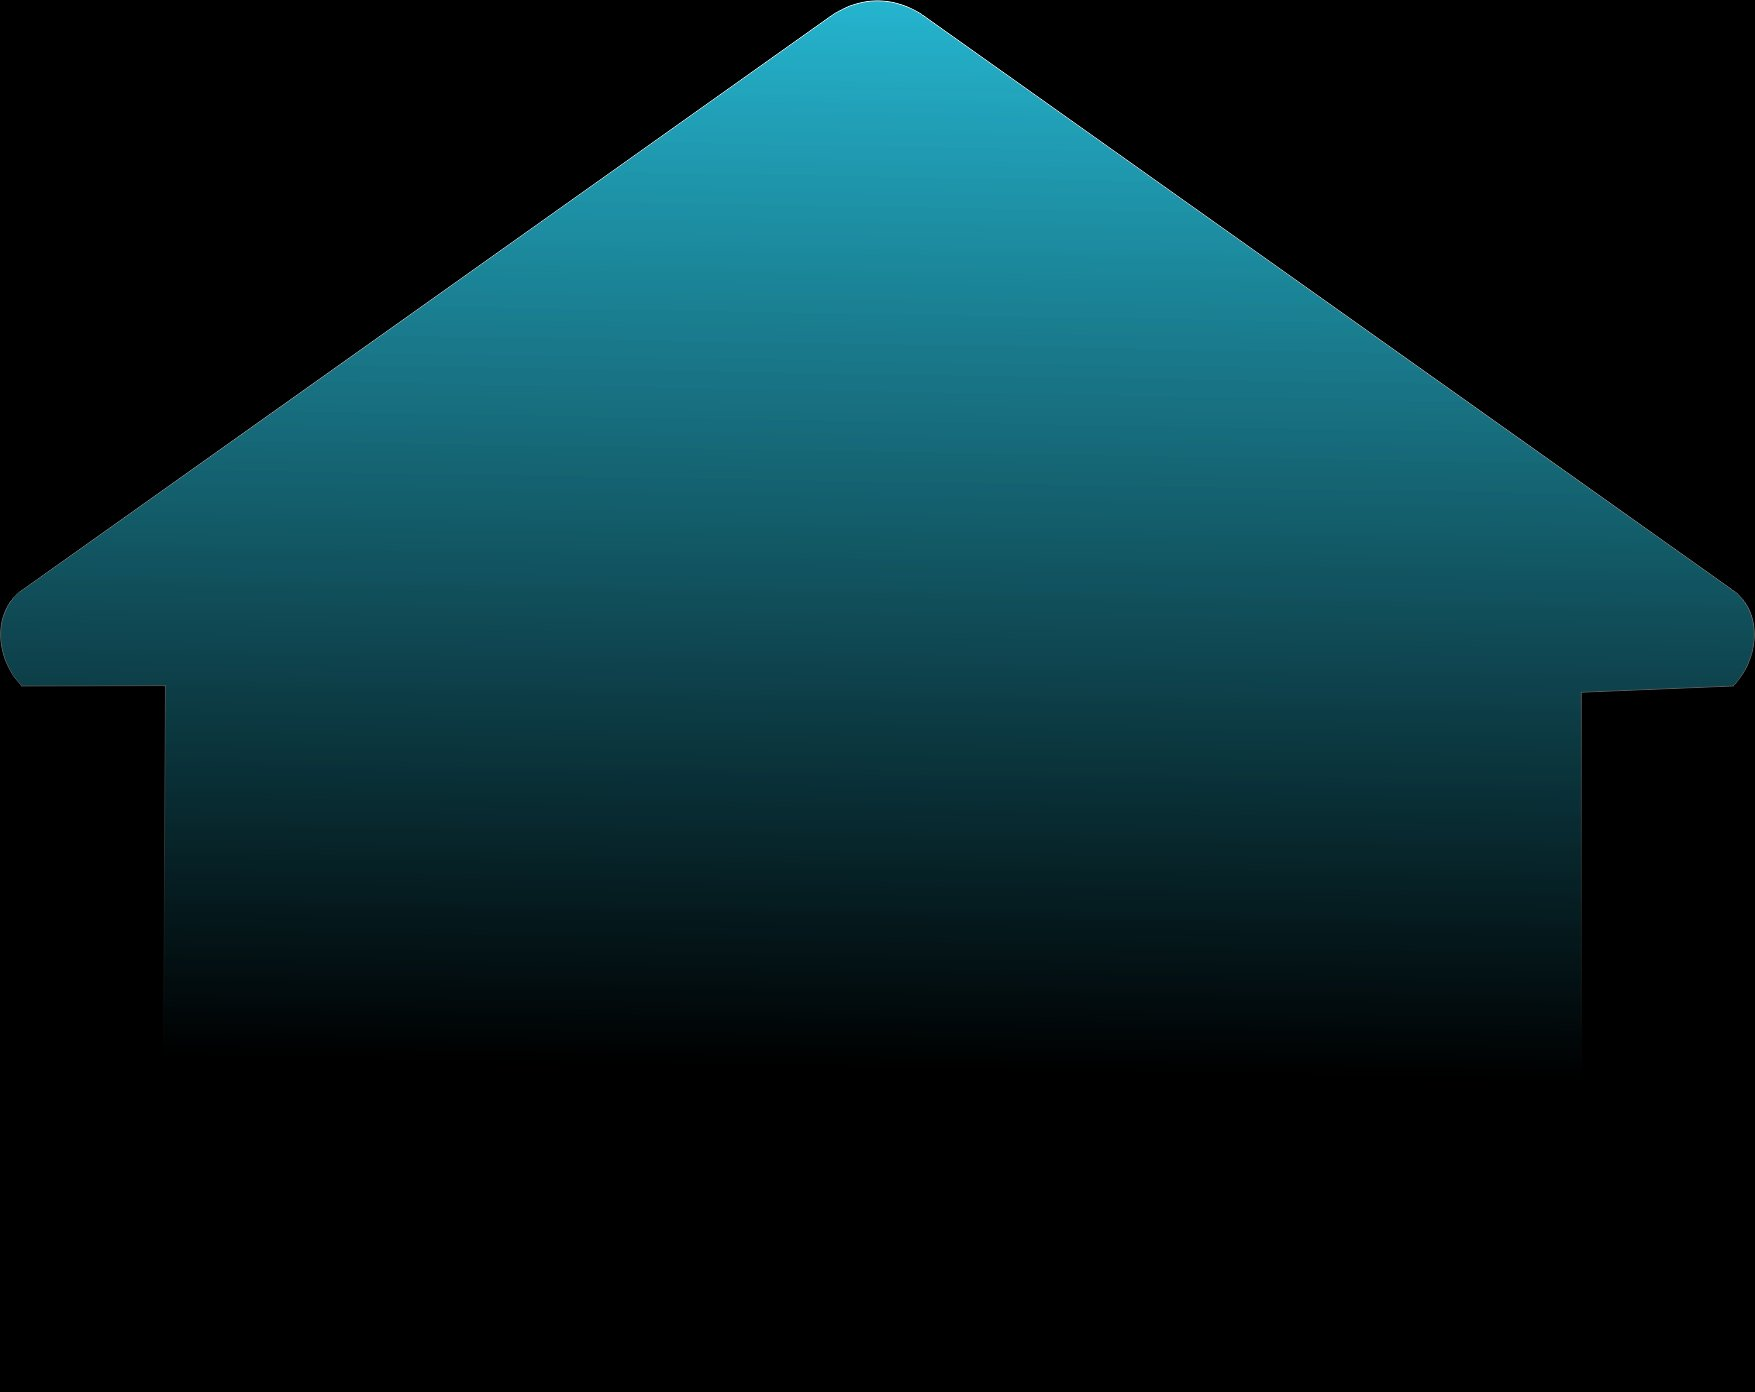
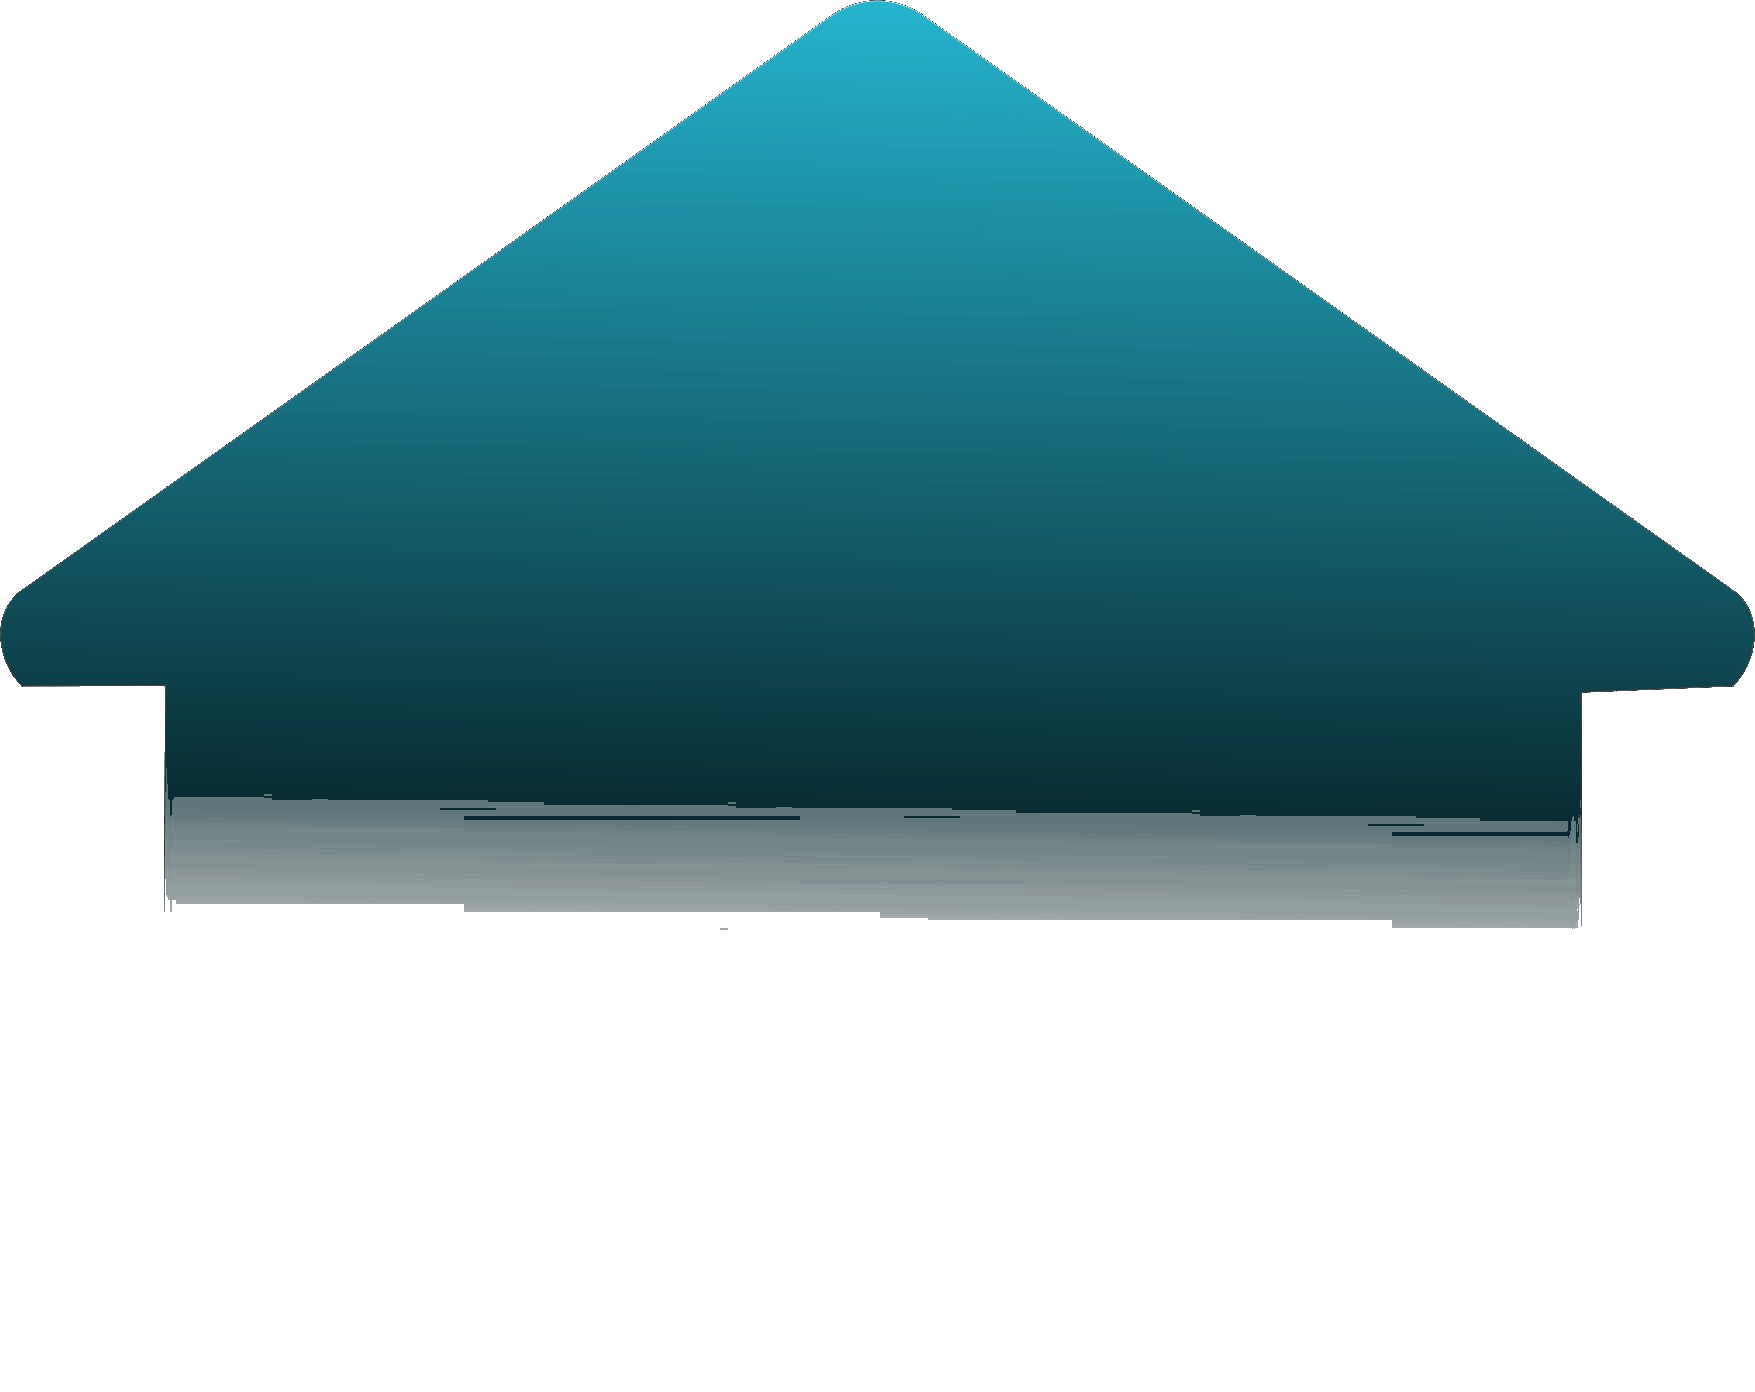
Fix arrow: remove black background, increase size, fix bottom cropping
- Removed black background from PNG using PIL (black pixels → transparent)
- Smooth edge transition for near-black pixels
- Increased height from 256px to 280px (less reduction)
- Changed background position to 'center bottom' to prevent bottom cropping
- Changed background-size to '100% auto' to fill width properly

diff --git a/app/globals.css b/app/globals.css
@@ -872,10 +872,10 @@ button { cursor: pointer; border: none; background: none; font-family: inherit; 
   flex-direction: column;
   align-items: center;
   justify-content: flex-end;
-  padding: 0 8px 24px;
+  padding: 0 8px 20px;
   position: relative;
-  height: 256px;
-  background: url('/images/growth-arrow.png') center / contain no-repeat;
+  height: 280px;
+  background: url('/images/growth-arrow.png') center bottom / 100% auto no-repeat;
 }
 
 .result-item:last-child { border-right: none; }
